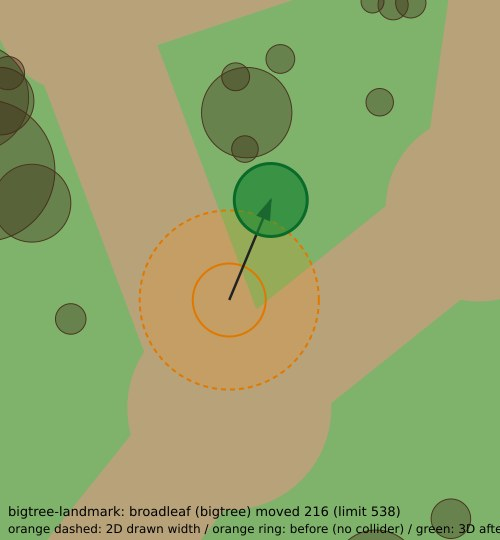
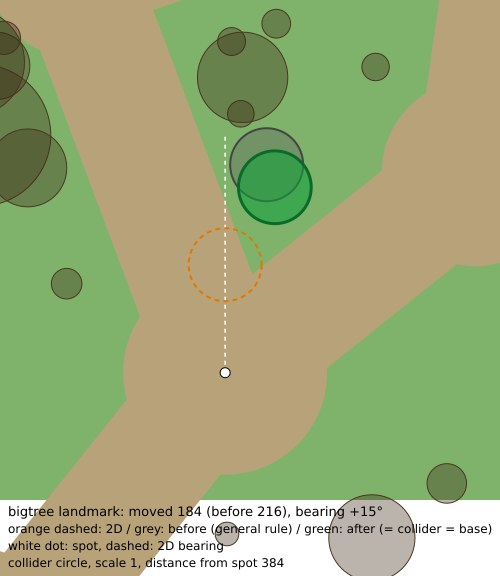
meguru 3D prototype: waterfall and big-tree landmark fixes
Human review asked for two fixes only: the waterfall read as a grey
slab over a flat blue disc, and the big tree lost its landmark presence
after road clearance moved it 216.

Landmark placement (3D mode only, 2D unchanged):
- Landmarks keep the bearing from their spot (within 30 degrees), stay
  farther than in 2D, stay within the M-1 reach, and may thin their base
  down to a per-type minScale. Choice minimises move + bearing drift +
  thinning. Per-type rule table (LANDMARK3D) only sets collider shape and
  minScale, so waterfall/torii/giant rock can reuse it.
- Ordinary props keep the M-1 rule; moved 89 / dropped 39 unchanged.
- Big tree: spot distance 432 -> 384, move 216 -> 184, bearing +15.
- Waterfall: box collider (336 x 157) facing the spot; cliff visual is
  that box. Cliff, falling water, plunge pool, foam, mist and rim stones
  move together as one landmark.

Visuals:
- Waterfall: rugged cliff (vertices only pulled inward), moss top,
  scrolling falling-water sheet, plunge pool from cliff foot to the spot
  with a depth-gradient water texture, sheen and wet shore; foam/mist
  pulse (stopped at anim level 0). Water spots use the same look and sit
  above the road surface (no z-fighting).
- Big tree landmark: trunk = collider, larger low crown above head.
  Ordinary bigtrunk trees unchanged.

Cost: great 54->55 calls, falls 54->58, forest walk 25->26; triangles
~96k unchanged. Build step max 22 ms.
[…]

diff --git a/meguru.js b/meguru.js
@@ -776,7 +776,12 @@
     function colliderOf(p) {
       if (!p.solid) return null;
       const size = p.size || 160;
-      if (p.landmark) return { shape: 'circle', hw: size * LANDMARK_COLLIDER.w, hd: size * LANDMARK_COLLIDER.w, ang: 0, kind: 'LM:' + p.landmark };
+      if (p.landmark) {
+        // collider3d は 3D モードの おきなおし(placeLandmark3dSteps)だけが つける。2D の ランドマークは いままでどおり
+        const c3 = p.collider3d, k = c3 ? c3.scale : 1;
+        if (c3 && c3.shape === 'box') return { shape: 'box', hw: size * c3.w * k, hd: size * c3.d * k, ang: c3.ang, kind: 'LM:' + p.landmark };
+        return { shape: 'circle', hw: size * LANDMARK_COLLIDER.w * k, hd: size * LANDMARK_COLLIDER.w * k, ang: 0, kind: 'LM:' + p.landmark };
+      }
       if (p.struct) {
         const c = Object.prototype.hasOwnProperty.call(COLLIDER, p.struct)
           ? COLLIDER[p.struct]
@@ -953,6 +958,42 @@
       for (const q of placed) if (Math.hypot(q.x - x, q.z - z) < (q.r + r) * 0.5) return true;
       return false;
     }
+    // ランドマーク(spot の ながめの 主役)は ふつうの 物の「いちばん ちかい 空き」では なく、spot から 見た むきを たもつ:
+    //   spot → もとの いち の むき から ±LANDMARK3D_TURN 度 まで・spot から もとの きょり より 遠く・約 1.5 × 大きさ の なか。
+    //   それでも おけなければ ねもと(あたり = 見た目の みき・がけ)を minScale まで ほそく する。
+    //   えらぶ じゅん = うごいた きょり(100 ごと 1)+ むきの ずれ(20 度 ごと 1)+ ほそく した ぶん(0.1 ごと 0.4)が すくない もの。どこにも おけなければ ふつうの ルールへ
+    // しゅるいで かわるのは あたりの かたち と ほそく できる はんい だけ(がけ は spot へ むいた 横ながの 箱)
+    const LANDMARK3D = { waterfall: { shape: 'box', w: 0.3, d: 0.14, minScale: 0.8 }, bigtree: { minScale: 0.6 } };
+    const LANDMARK3D_DEFAULT = { minScale: 0.8 };
+    const LANDMARK3D_TURN = 30;
+    function* placeLandmark3dSteps(p, world, probe, placed, lo, hi) {
+      const sp = (world.spots || []).find((s) => p.mid === 'lm:' + s.id);
+      if (!sp) return null;
+      const rule = LANDMARK3D[p.landmark] || LANDMARK3D_DEFAULT, limit = RELOCATE3D_REACH * 2 * propVisualHalf(p);
+      const b0 = Math.atan2(p.x - sp.x, p.z - sp.z), d0 = Math.hypot(p.x - sp.x, p.z - sp.z);
+      let best = null;
+      for (let s = 1; s >= rule.minScale - 1e-9; s -= 0.1) {
+        for (let dt = -LANDMARK3D_TURN; dt <= LANDMARK3D_TURN; dt += 5) {
+          if (dt % 15 === 0) yield;   // くぎり(1 frame を ながく とめない)
+          const th = b0 + dt * Math.PI / 180, ux = Math.sin(th), uz = Math.cos(th);
+          for (let d = d0; ; d += 12) {
+            const x = sp.x + ux * d, z = sp.z + uz * d, move = Math.hypot(x - p.x, z - p.z);
+            const score = move / 100 + Math.abs(dt) / 20 + (1 - s) * 4;
+            if (move > limit || (best && score >= best.score)) break;   // d が のびる ほど move も ふえる
+            // がけ(箱)は よこながの 面を spot へ むける: 箱の おくゆき の じく(cos a, −sin a)= spot からの むき
+            const c3 = rule.shape === 'box' ? { shape: 'box', w: rule.w, d: rule.d, ang: Math.atan2(-uz, ux), scale: s } : { scale: s };
+            const q = Object.assign({}, p, { x, z, collider3d: c3 }), full = colliderOf(q), fr = Math.max(full.hw, full.hd);
+            if (x - fr < lo + 20 || x + fr > hi - 20 || z - fr < 80 || z + fr > world.len - 80) continue;
+            if (!farFromRoads(world, x, z, COLL_CLEAR) || trunkAt(probe, placed, x, z, Math.min(full.hw, full.hd))) continue;
+            const o = obstacleOf(q, world, null);   // 道の 通行帯・spot の まんなか。ちぢめたり ずらしたり された ものは つかわない
+            if (!o || Math.max(o.hw, o.hd) < fr - 0.01 || Math.hypot(o.x - x, o.z - z) > 0.5) continue;
+            best = { score, x, z, o, c3, d: move, turn: dt, scale: Math.round(s * 10) / 10, view: Math.round(d) };
+            break;
+          }
+        }
+      }
+      return best;
+    }
     // くぎり(yield)つき。corridor の まえもって 組む(buildWorldSteps)を 1 frame で とめない
     function* relocateRoadSolids3dSteps(world) {
       const stats = { candidates: 0, solidified: {}, moved: {}, dropped: {}, moves: [], drops: [] };
@@ -965,12 +1006,16 @@
       // のこりの 物の あたりは うごかす さきが ほかの みきの 上に ならない ための もの
       const cands = [], fixed = [];
       for (let i = 0; i < world.props.length; i++) {
-        const p = world.props[i], o = obstacleOf(p, world, i);
+        const p = world.props[i];
+        // ランドマークは 道に かかって いなくても いつも 候補(3D の あたりの かたち = がけの 箱 などに する)
+        if (p.landmark && colliderOf(p)) { cands.push(p); continue; }
+        const o = obstacleOf(p, world, i);
         if (o) fixed.push(o);
-        else if (solidLookingProp(p) || (p.landmark && colliderOf(p))) cands.push(p);
+        else if (solidLookingProp(p)) cands.push(p);
         if (i % 200 === 199) yield;
       }
       stats.candidates = cands.length;
+      cands.sort((a, b) => (b.landmark ? 1 : 0) - (a.landmark ? 1 : 0));   // ランドマークが さきに ばしょを えらぶ
       const probe = { obstacles: fixed, collision: buildCollisionGrid(fixed) };
       const placed = [];
       const lo = world.minX != null ? world.minX : -world.halfW, hi = world.maxX != null ? world.maxX : world.halfW;
@@ -978,6 +1023,15 @@
         if (ci > 0) yield;
         const p = cands[ci];
         const kind = p.struct || p.emoji, full = colliderOf(p), fr = Math.max(full.hw, full.hd), limit = RELOCATE3D_REACH * 2 * propVisualHalf(p);
+        const lm = p.landmark ? yield* placeLandmark3dSteps(p, world, probe, placed, lo, hi) : null;
+        if (lm) {
+          stats.moves.push({ kind, d: Math.round(lm.d), from: { x: Math.round(p.x), z: Math.round(p.z) }, to: { x: Math.round(lm.x), z: Math.round(lm.z) }, r: Math.round(Math.max(lm.o.hw, lm.o.hd)), landmark: p.landmark,
+            turn: lm.turn, scale: lm.scale, view: lm.view, shape: lm.o.shape });
+          stats.moved[kind] = (stats.moved[kind] || 0) + 1;
+          p.x = lm.x; p.z = lm.z; p.collider3d = lm.c3; p.moved3d = true;
+          placed.push(lm.o);
+          continue;
+        }
         let best = null;
         for (let a = 0; a < 16; a++) {
           const ux = Math.sin(a * Math.PI / 8), uz = Math.cos(a * Math.PI / 8);
@@ -1024,7 +1078,36 @@
       if (p.struct && !OBJ3D_BILLBOARD[p.struct]) return 'skip';
       return p.emoji || OBJ3D_BILLBOARD[p.struct] ? 'billboard' : 'skip';
     }
-    function parts3d(type, o, H, halfW, size) {
+    // たき = がけ(あたり = がけの 箱)+ おちる 水の まく + たきつぼ + あわ・しぶき + ふちの ひらたい 石。ひとつの ランドマークとして いっしょに うごく。
+    // ctx.front = たき から spot への むき、ctx.dist = spot までの きょり。水・あわ・しぶき・ひらたい 石(たかさ 16 まで)は とおれる
+    function waterfallParts3d(o, r, size, ctx) {
+      const f = ctx && ctx.front ? ctx.front : { x: 0, z: -1 };
+      const box = o && o.shape === 'box', hw = box ? o.hw : r, hd = box ? o.hd : r;
+      const a = box ? o.ang : Math.atan2(f.z, -f.x);   // 箱の おくゆき の じく(cos a, −sin a)= −front
+      const sx = Math.sin(a), sz = Math.cos(a), h = size * 0.75;
+      const at = (fd, sd) => ({ dx: f.x * fd + sx * sd, dz: f.z * fd + sz * sd });
+      // たきつぼ: がけの 足もと(すこし 下に もぐる)から spot の まんなか まで(spot に たつと 岸べ。2D の 池と おなじ ところに 水)。
+      // よこはばは 道の 面に かからない ところまで(spot の まんなか ちかくの 道の はしっこ は 2D の 池と おなじく 水ぎわ)
+      const far = hd - 16, near = Math.max(far + 120, ctx && ctx.dist ? ctx.dist : hd + 200), along = (near - far) / 2;
+      let across = Math.max(hw * 1.25, along);
+      if (ctx && ctx.world && ctx.spot && o) {
+        const cx = o.x + f.x * (far + along), cz = o.z + f.z * (far + along), keep = ctx.spot.r * 0.75;
+        const wet = (k) => { for (let i = 0; i < 24; i++) { const u = Math.cos(i * Math.PI / 12), v = Math.sin(i * Math.PI / 12), x = cx + f.x * along * u + sx * k * v, z = cz + f.z * along * u + sz * k * v;
+          if (Math.hypot(x - ctx.spot.x, z - ctx.spot.z) > keep && !farFromRoads({ segments: ctx.world.segments }, x, z, 0)) return true; } return false; };
+        while (across > hw * 0.8 && wet(across)) across *= 0.92;
+      }
+      const out = [{ shape: 'cliff', rx: hw, rz: hd, h, y: 0, ang: a }, { shape: 'moss', rx: hw + 8, rz: hd + 8, h: 16, y: h, ang: a },
+        Object.assign({ shape: 'fall', w: hw * 0.62, h: h - 2, y: 0, fx: f.x, fz: f.z }, at(hd + 3, 0)),
+        Object.assign({ shape: 'pool', rx: across, rz: along, y: 0, ang: a }, at(far + along, 0)),
+        Object.assign({ shape: 'foam', rx: hw * 0.36, rz: 30, y: 0, ang: a }, at(hd + 26, 0)),
+        Object.assign({ shape: 'mist', r: hw * 0.3, sy: 0.5, y: 24, fx: f.x, fz: f.z }, at(hd + 34, 0))];
+      // たきつぼの ふちの ひらたい 石(がけの 両わき と てまえの 左右)
+      for (const [fd, sd, k] of [[hd + 16, hw * 0.8, 1], [hd + 22, -hw * 0.78, 0.8], [far + along * 1.6, across * 0.72, 0.7], [far + along * 1.5, -across * 0.78, 0.9]]) {
+        out.push(Object.assign({ shape: 'stone', rx: 26 * k + 8, rz: 18 * k + 6, h: 10 + 6 * k, y: 0 }, at(fd, sd)));
+      }
+      return out;
+    }
+    function parts3d(type, o, H, halfW, size, ctx) {
       const r = o ? Math.max(o.hw, o.hd) : halfW * 0.3;
       const below = (rad, y) => (y < OBJ3D_HEAD ? Math.min(rad, r + 10) : rad);   // あたまより 下は あたり + 10 まで
       switch (type) {
@@ -1038,11 +1121,18 @@
           return [{ shape: 'trunk', r: r * 0.7, h: cy, y: 0 }, { shape: 'crown', r: R, sy: 0.8, y: cy }];
         }
         case 'bigtree': {
-          const top = Math.max(H, OBJ3D_HEAD * 3), R = Math.max(size * 0.42, r * 2.4);
-          return [{ shape: 'trunk', r, h: top, y: 0, taper: 0.6 }, { shape: 'crown', r: R, sy: 0.7, y: top + R * 0.3 }, { shape: 'crown', r: R * 0.75, sy: 0.7, y: top - R * 0.1, dx: R * 0.6 }, { shape: 'crown', r: R * 0.7, sy: 0.7, y: top, dx: -R * 0.55, dz: R * 0.3 }];
+          if (!ctx) {   // ふつうの 大木(bigtrunk)
+            const top = Math.max(H, OBJ3D_HEAD * 3), R = Math.max(size * 0.42, r * 2.4);
+            return [{ shape: 'trunk', r, h: top, y: 0, taper: 0.6 }, { shape: 'crown', r: R, sy: 0.7, y: top + R * 0.3 }, { shape: 'crown', r: R * 0.75, sy: 0.7, y: top - R * 0.1, dx: R * 0.6 }, { shape: 'crown', r: R * 0.7, sy: 0.7, y: top, dx: -R * 0.55, dz: R * 0.3 }];
+          }
+          // ランドマークの 大きな木: みき = あたり の まま。えだはり(あたまより 上)を ひとまわり 大きく ひくめに ひろげて、spot の 空を おおう
+          const top = Math.max(size * 1.15, OBJ3D_HEAD * 3), R = Math.max(size * 0.6, r * 3);
+          return [{ shape: 'trunk', r, h: top, y: 0, taper: 0.6 }, { shape: 'crown', r: R, sy: 0.62, y: top + R * 0.1 },
+            { shape: 'crown', r: R * 0.72, sy: 0.6, y: top - R * 0.25, dx: R * 0.75 }, { shape: 'crown', r: R * 0.7, sy: 0.6, y: top - R * 0.3, dx: -R * 0.7, dz: R * 0.25 },
+            { shape: 'crown', r: R * 0.62, sy: 0.6, y: top - R * 0.2, dz: -R * 0.6 }, { shape: 'crown', r: R * 0.6, sy: 0.6, y: top - R * 0.28, dx: R * 0.2, dz: R * 0.7 }];
         }
         case 'mushroom': return [{ shape: 'trunk', r, h: size * 0.5, y: 0, taper: 1 }, { shape: 'cap', r: Math.max(r * 2.2, size * 0.3), sy: 0.55, y: size * 0.5 }];
-        case 'waterfall': return [{ shape: 'cliff', rx: r, rz: r, h: size * 0.6, y: 0 }, { shape: 'fall', w: r * 1.3, h: size * 0.58, y: 0, dz: -r - 2 }];   // がけの 足もと = あたり
+        case 'waterfall': return waterfallParts3d(o, r, size, ctx);
         case 'rock': return [{ shape: 'rock', rx: o ? o.hw : r, rz: o ? o.hd : r, h: Math.min(H, (o ? Math.max(o.hw, o.hd) : r) * 1.1), y: 0 }];
         case 'log': return [{ shape: 'log', len: o ? o.hw * 2 : halfW * 2, r: o ? Math.min(o.hd, 34) : 20, y: 0 }];
         case 'stump': return [{ shape: 'stump', r, h: Math.min(size * 0.35, 60), y: 0 }];
@@ -1064,9 +1154,13 @@
         if (!o && !WALKABLE3D.has(type)) { unresolved.push(kind); return; }   // かたい 見た目で あたりが ない 物は おかない
         const size = p.size || 160, box = (p.struct && OCCLUDER_BOX[p.struct]) || (p.landmark ? OCCLUDER_BOX.landmark : OCCLUDER_BOX.glyph);
         const H = size * box[1], halfW = size * box[0];
-        out.push({ id: world.regionId + ':' + i, pi: i, type, kind, region: world.regionId, layer: p.layer || null, role: o ? o.role : null,
+        // ランドマークは もちぬしの spot(むき・きょり)を しって いる。たきは たきつぼ を spot の 池 の かわりに もつ
+        const sp = p.landmark ? (world.spots || []).find((s) => p.mid === 'lm:' + s.id) : null;
+        const ox = o ? o.x : p.x, oz = o ? o.z : p.z, dist = sp ? Math.hypot(sp.x - ox, sp.z - oz) : 0;
+        const ctx = sp && dist > 1 ? { front: { x: (sp.x - ox) / dist, z: (sp.z - oz) / dist }, dist, spot: sp, world } : null;
+        out.push({ id: world.regionId + ':' + i, pi: i, type, kind, region: world.regionId, layer: p.layer || null, role: o ? o.role : null, spot: sp ? sp.id : null,
           x: o ? o.x : p.x, z: o ? o.z : p.z, rot: o ? o.ang || 0 : p.ang || 0, height: H, halfW, size, emoji: type === 'billboard' ? (p.emoji || OBJ3D_BILLBOARD[p.struct]) : null,
-          solid, walkable: !o, collision: o ? { shape: o.shape, x: o.x, z: o.z, hw: o.hw, hd: o.hd, ang: o.ang || 0 } : null, moved3d: !!p.moved3d, parts: parts3d(type, o, H, halfW, size) });
+          solid, walkable: !o, collision: o ? { shape: o.shape, x: o.x, z: o.z, hw: o.hw, hd: o.hd, ang: o.ang || 0 } : null, moved3d: !!p.moved3d, parts: parts3d(type, o, H, halfW, size, ctx) });
       });
       return { objects: out, skipped, unresolved };
     }

diff --git a/index.html b/index.html
@@ -874,8 +874,8 @@
   <script src="display-illustrations.js?v=20260929-0eb0da4a"></script>
   <script src="canvas-illustrations.js?v=20260929-0c241de2"></script>
   <!-- めぐる 3D prototype(?meguru3d=1 の ときだけ script.js が <script type="module"> で よむ。ふだんは よみこまない) -->
-  <template id="meguru3dModule" data-src="meguru-3d.mjs?v=20260930-b0f1cd26"></template>
-  <script src="meguru.js?v=20260930-c293cf04"></script>
+  <template id="meguru3dModule" data-src="meguru-3d.mjs?v=20260930-4953594d"></template>
+  <script src="meguru.js?v=20260930-a893bc44"></script>
   <script src="quick.js?v=20260929-302dab6e"></script>
   <script src="games.js?v=20260929-5a399dc0"></script>
   <script src="audio.js?v=20260929-f12be965"></script>

diff --git a/docs/qa/meguru-forest-3d-prototype-2026-09-30.md b/docs/qa/meguru-forest-3d-prototype-2026-09-30.md
@@ -101,7 +101,7 @@ branch: `claude/naotocchi-forest-3d-prototype`
 - WebGL が ない(Node の テスト)→ はじめの frame から 2D、そのあとも 2D(`tests/meguru-3d-prototype-test.cjs` 7)。
 - context lost(ブラウザで `WEBGL_lose_context`)→ 3D の canvas を はずし、おなじ frame から 2D(3D モードの world を 2D で えがく = 見た目と あたりは そろった まま)。page error 0。しゃしん: `context-lost-3d-to-2d.jpg`。
 - セーブに `meguru3d` の キーは ない。フラグは URL だけ。
-- `npm test` 2796 / 2796(フラグなし の 既存 テスト ぜんぶ + 3D 8)。
+- `npm test` 2798 / 2798(フラグなし の 既存 テスト ぜんぶ + 3D 9)。
 
 ## 6. 成功条件 / 失敗条件(判定)
 
@@ -132,3 +132,62 @@ branch: `claude/naotocchi-forest-3d-prototype`
 - キャラの 表情(#278)は めぐるでは つかって いない(2D と おなじ)。ふきだし・名まえ は 2D canvas の 簡易 版。
 - 半径 22 / 17.6 の 統一・4 秒の もどり fallback の おきかえ(正式な navigation)・物の 高さを つかう あたり・corridor C5・world object の collision model の 全体 は まだ(Roadmap §12 の のこり)。
 - 3D の asset(texture / GLB)を ふやす ときの cache: ファイル名に 内容の hash、おなじ path は 上書き しない。Three.js は version 名の フォルダ(token いらない)。
+
+## 8. ランドマーク(大きな木・たき)の 直し — 人の目の レビューの あと
+
+レビュー: 方向は よい(木の 体積・奥行き・billboard は 許容)。直すのは **たき** と **大きな木の ランドマーク感** の 2 つだけ。ほかの 演出(木もれび・雨 / 雪・風・遠景・手前の えだ)・city・ほかの 地域・キャラの むき・Blender asset は やって いない。
+
+### ランドマークの おきかた(3D モードだけ・2D は かわらない)
+
+ふつうの 物は いままでどおり M-1(いちばん ちかい 空き・約 1.5 × 大きさ・なければ おかない)。ランドマーク(spot の ながめの 主役。forest では 大きな木・たき・ひかる きのこ)だけ:
+
+- spot → 2D の いち の **むきを たもつ**(±30 度・5 度 きざみ)。spot から 2D より 遠く(道を ふさがない)・約 1.5 × 大きさ の なか。
+- おけなければ ねもと(あたり = 見た目の みき・がけ)を しゅるい ごとの `minScale` まで ほそく する(大きな木 0.6 / たき 0.8 / そのほか 0.8)。
+- えらぶ じゅん: うごいた きょり(100 ごと 1)+ むきの ずれ(20 度 ごと 1)+ ほそく した ぶん(0.1 ごと 0.4)が すくない もの。道の 通行帯・spot の まんなか・ほかの みき の しらべは ふつうの 物と おなじ(`obstacleOf`・`trunkAt`)。どこにも おけなければ ふつうの ルールへ。
+- しゅるいで ちがうのは あたりの かたち と `minScale` だけ(`LANDMARK3D`)。big tree 専用の 分岐は ない。鳥居・大岩・神木 なども 1 行 で おなじ ルールに のる。
+- たき は ひとつの ランドマークとして **がけ・おちる 水・たきつぼ・あわ・しぶき・ふちの 石 が いっしょに** うごく(べつべつに ずれない)。
+
+| ランドマーク | 2D の いち | まえ(ふつうの ルール) | いま(ランドマークの ルール) |
+|---|---|---|---|
+| 大きな木(great) | (0, 5816)・spot から 216・正面 | (83, 6016) うごき 216・spot から 432・+11 度 | **(99, 5971) うごき 184・spot から 384・+15 度**・みき 1.0 倍 |
+| たき(falls) | (−1500, 5880)・spot から 180・正面 | (−1432, 5948) うごき 96・まるい ねもと r 73 | **(−1410, 6036) うごき 180・spot から 348・+15 度**・がけの 箱 336 × 157(面が spot へ) |
+| ひかる きのこ(mush1) | (−1300, 3798) | (−1300, 3942) うごき 144 | おなじ(正面・うごき 144) |
+
+ほかの 物の うごかした / おかない は かわらない(89 / 39、候補 128)。
+
+### たき の 見た目
+
+- がけ = あたりの 箱(よこ 336・おくゆき 157・たかさ 420)。頂点を 内がわへ だけ ずらした ごつごつの 箱(あたりの そとへ 出ない)+ 上に こけ(あたまより 上)。
+- おちる 水: がけの 面の まえ(+3)に たての すじの texture を 1 まい。v を ずらして ながれる(うごきを へらす 設定では とめる)。
+- たきつぼ: がけの 足もと(すこし もぐる)から spot の まんなか まで の だ円。まんなか ふかく こい・ふち あさく うすい 水の texture・つや(Phong)・ぬれた 岸の ふち。spot の 池の かわりに なる(2D と おなじく spot の まんなか は 水ぎわ)。よこはばは 道の 面に かからない ところまで。
+- あわ(ひらたい 白・うすく 明滅)・しぶき(半透明の かたまり)・ふちの ひらたい 石 4 つ(たかさ 16 まで・小石と おなじく ふんで とおれる)。
+- 水・あわ・しぶき は かたく ない(とおれる)。すかし(ghost)の 対象にも しない。
+- 池(water の spot)も おなじ 水の 見た目・岸の ふち に(道の 面より 上に して、道と ちらつかない)。
+
+### 大きな木 の 見た目
+
+- みき = あたり(r 73)の まま。えだはり(ぜんぶ あたまより 上)を 5 つの かたまりで ひとまわり 大きく ひくめに(半径 336)、spot の 空を おおう。
+- ふつうの 大木(bigtrunk)は かえて いない(三角形を ふやさない ため)。
+
+### 計測(headless Chromium・SwiftShader・おなじ セーブ・おなじ いち)
+
+| | まえ | いま |
+|---|---|---|
+| great: draw call / 三角形 | 54 / 96,134 | 55 / 96,086 |
+| falls: draw call / 三角形 | 54 / 96,078 | 58 / 96,334 |
+| forest 20 秒 あるき: draw call / 三角形 | 25 / 96,064 | 26 / 96,016 |
+| forest 20 秒 あるき: 3D の JS avg / p95 | 4.8 / 4.0 ms | 4.4 / 4.4 ms |
+| texture / geometry | 40〜41 / 18〜19 | 41〜43 / 19〜23 |
+| 3D モードの world を 組む 1 くぎり の 最大(Node) | 44 ms | 22 ms(JIT の あと) |
+
+ふえた draw call は こけ・岸の ふち・あわ・しぶき(ぜんぶ InstancedMesh 1 つ ずつ・森ぜんぶで 1 かい)。池の 別の mesh は やめて たきつぼ と おなじ mesh に した。フレーム時間(SwiftShader)は 実機の めやすに ならない。
+
+### しゃしん(おなじ セーブ 27 にん・おなじ player の いち・むき・時間 / 天気 / 季節・あるかない)
+
+- `great-2d-vs-3d.jpg` / `falls-2d-vs-3d.jpg`: 左 2D・右 3D(いま)
+- `great-3d-before-after.jpg` / `falls-3d-before-after.jpg`: 左 3D(まえ)・右 3D(いま)
+- `relocation-bigtree-landmark.jpg` / `relocation-waterfall-landmark.jpg`: 上から 見た 図(2D・まえ・いま・spot から の むき・たきつぼ)
+
+### テスト
+
+`tests/meguru-3d-prototype-test.cjs` 3b(ランドマーク): spot から 見た むきの ずれ ≤ 30 度・spot より 遠い・ねもと 0.6〜1 倍・あたり = 見た目の いち・大きな木は spot から 400 まで(ふつうの ルールでは 432)・みき = あたり・えだはり は あたまより 上・たきは 面が spot へ むいた よこながの 箱 = がけ・水の もの は がけの まえ・たきつぼは がけ から spot まで・2D の ランドマークは まるい ねもと の まま。3 は 水 / あわ / しぶき を かたく ない もの・ふちの 石を 16 まで と して しらべる。

diff --git a/docs/qa/meguru-forest-3d-prototype-2026-09-30/README.md b/docs/qa/meguru-forest-3d-prototype-2026-09-30/README.md
@@ -15,8 +15,17 @@ branch `claude/naotocchi-forest-3d-prototype`。記録の 正本は [../meguru-f
 | [entrance](entry-2d-vs-3d.jpg)(もりのいりぐち) | (0, 150) むき 0 | 道の 読みやすさ・木の 存在感 |
 | [bright2](bright2-2d-vs-3d.jpg)(ひだまり) | (−700, 1050) | 大木の 体積・キャラの うしろの 木 |
 | [fork](fork-2d-vs-3d.jpg)(みつまた) | (0, 2900) | 木の 密度・霧の 奥行き |
-| [big tree](great-2d-vs-3d.jpg)(おおきなき) | (0, 5500) | ランドマーク(3D では 道を あける ため 216 うごいた)|
-| [waterfall](falls-2d-vs-3d.jpg)(たき) | (−1500, 5600) | 池・がけ・手前の 物 |
+| [big tree](great-2d-vs-3d.jpg)(おおきなき) | (0, 5500) | ランドマーク(レビュー後に 直した。下の 1b)|
+| [waterfall](falls-2d-vs-3d.jpg)(たき) | (−1500, 5600) | がけ・おちる 水・たきつぼ(レビュー後に 直した。下の 1b)|
+
+big tree と waterfall の 2 まいは レビュー後の 3D(昼 / 晴れ / 秋。左右は おなじ 条件)。ほかの 3 地点と billboard・occlusion の しゃしんは レビュー まえ の まま。
+
+## 1b. レビュー後: 大きな木 と たき だけ 直した
+
+- [big tree 3D まえ / いま](great-3d-before-after.jpg) — 道を あけつつ spot の 正面に ちかく(spot から 432 → 384・むき +11 → +15 度)。えだはりを ひとまわり 大きく ひくめに(みき = あたり の まま)。
+- [waterfall 3D まえ / いま](falls-3d-before-after.jpg) — がけ = あたりの 箱(面が spot へ)・ながれる 水の まく・がけの 足もと から spot まで の たきつぼ(つや・岸の ふち)・あわ・しぶき・ふちの 石。いっしょに うごく。
+- 上から 見た 図: [大きな木](relocation-bigtree-landmark.jpg) / [たき](relocation-waterfall-landmark.jpg)
+- ルール と 計測: [QA §8](../meguru-forest-3d-prototype-2026-09-30.md#8-ランドマーク大きな木たきの-直し--人の目の-レビューの-あと)
 
 ## 2. billboard(なかま・player の まわりを 2 倍)
 
@@ -29,9 +38,9 @@ branch `claude/naotocchi-forest-3d-prototype`。記録の 正本は [../meguru-f
 
 ## 4. 道の うえの かたい 物の 移動(M-1、3D モードだけ)
 
-うごかした 89・おかない 39(ぜんぶで 128)。代表 5 つ(上 = 北。オレンジ点線 = 2D の 絵の はば、オレンジの 輪 = もとの 足もと(2D では あたり なし)、みどり = 3D の あと(見た目 = あたり)、茶色 = ほかの 物の あたり、ベージュ = 道・spot):
+うごかした 89・おかない 39(ぜんぶで 128)。ランドマーク 2 つは レビュー後の ランドマークの ルール(1b)。代表 5 つ(上 = 北。オレンジ点線 = 2D の 絵の はば、オレンジの 輪 = もとの 足もと(2D では あたり なし)、みどり = 3D の あと(見た目 = あたり)、茶色 = ほかの 物の あたり、ベージュ = 道・spot):
 
-[大きな木(ランドマーク)216](relocation-bigtree-landmark.jpg) / [たき(ランドマーク)96](relocation-waterfall-landmark.jpg) / [大木 2 本 108・120](relocation-bigtrunk-pair.jpg) / [広葉樹 144](relocation-broadleaf.jpg) / [おかない 針葉樹(さがす はんい 167)](relocation-dropped-conifer.jpg)
+[大きな木(ランドマーク)184](relocation-bigtree-landmark.jpg) / [たき(ランドマーク)180](relocation-waterfall-landmark.jpg) / [大木 2 本 108・120](relocation-bigtrunk-pair.jpg) / [広葉樹 144](relocation-broadleaf.jpg) / [おかない 針葉樹(さがす はんい 167)](relocation-dropped-conifer.jpg)
 
 ## 5. context lost
 
